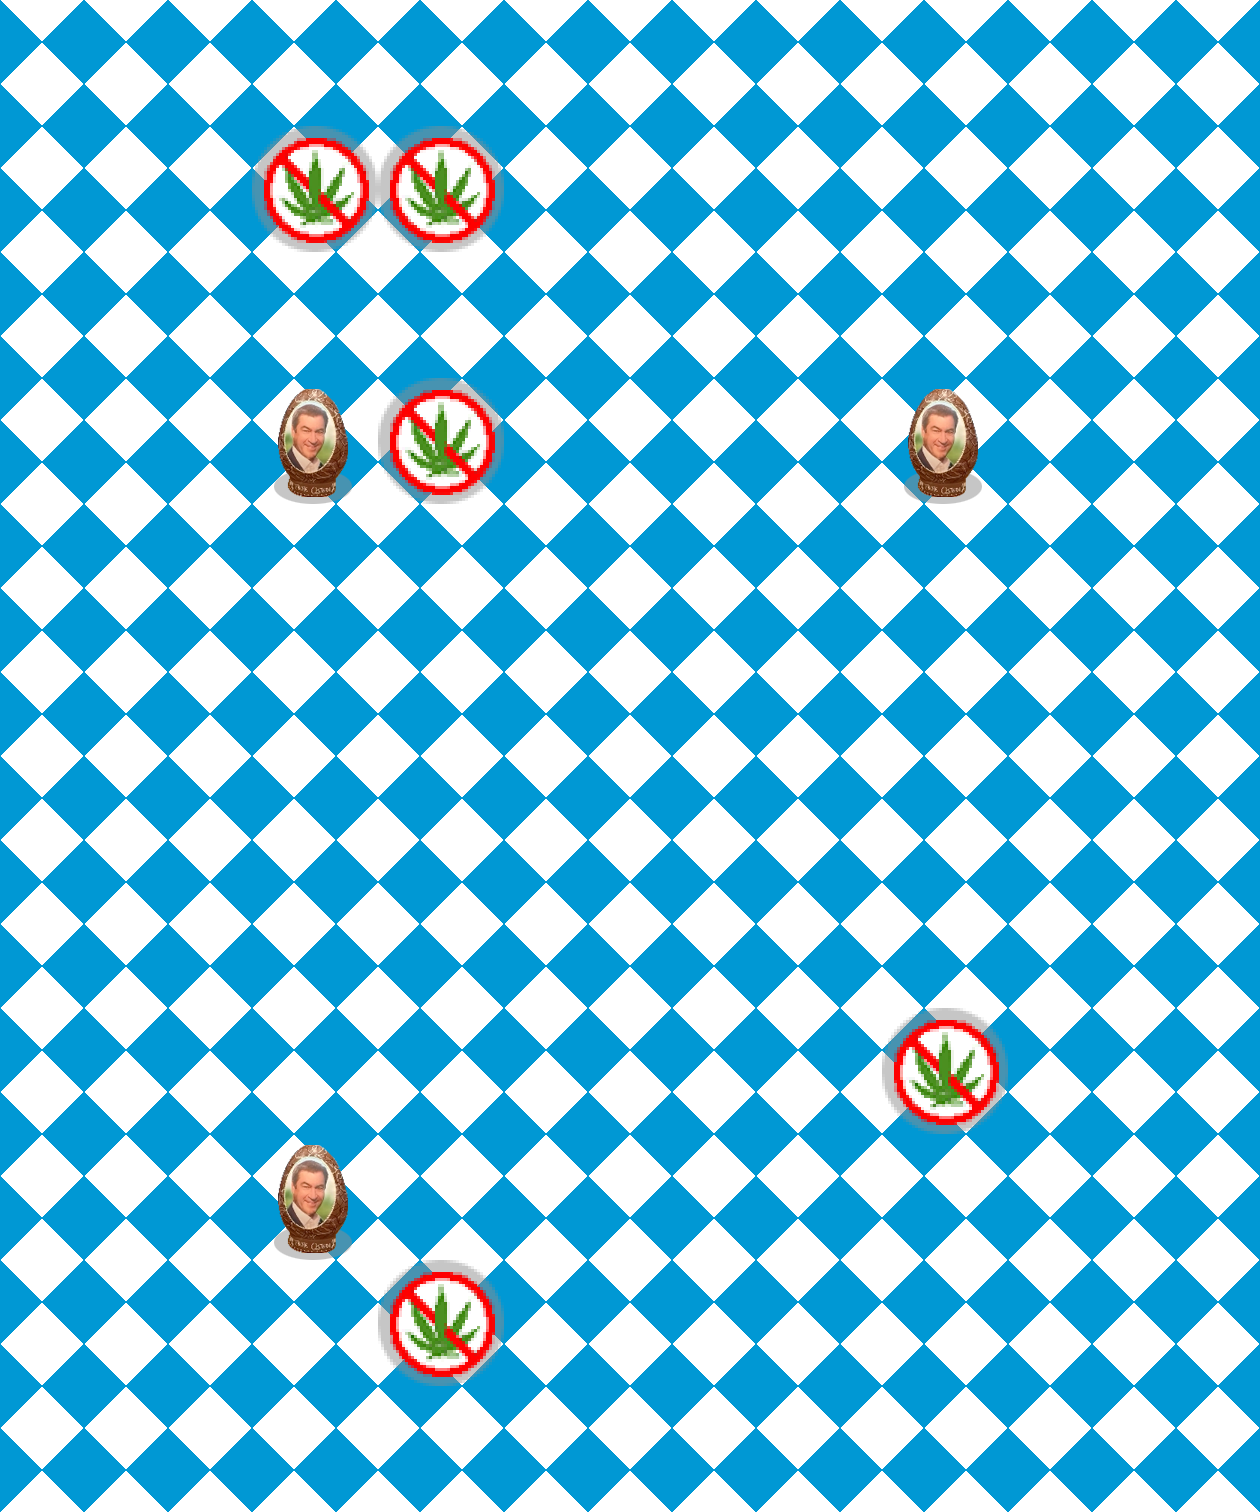
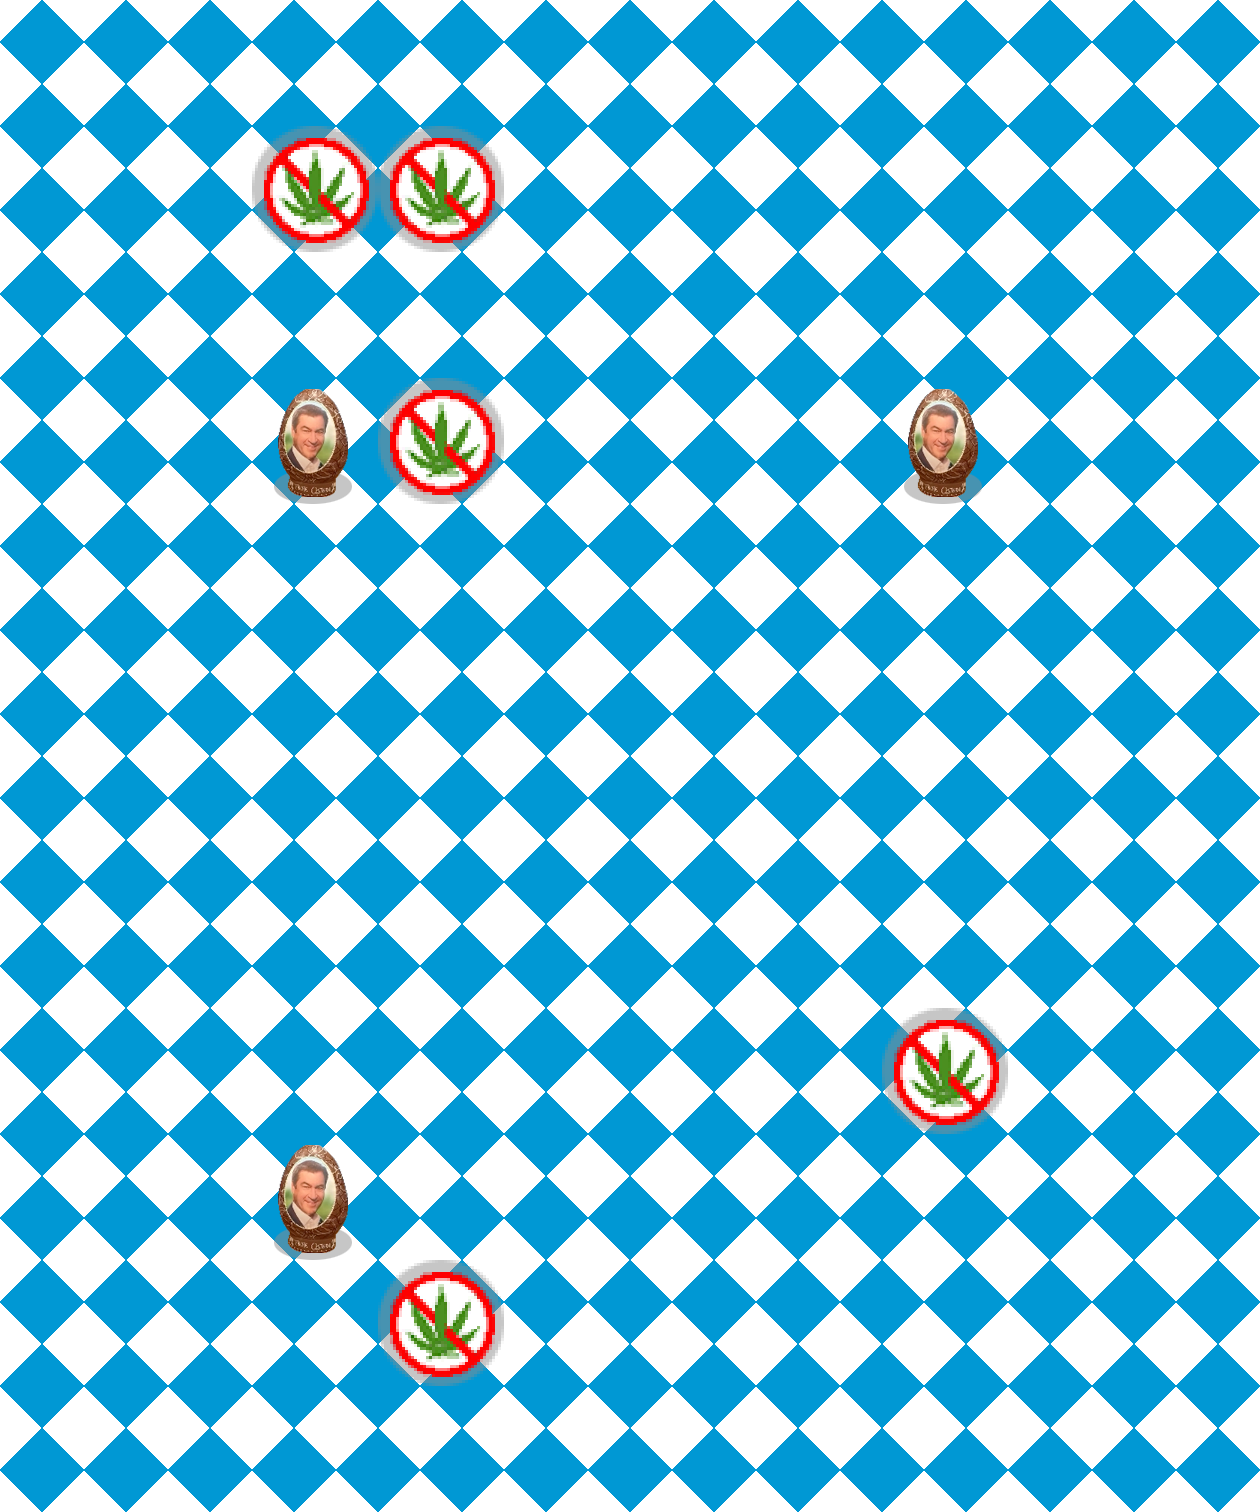
[#282] Fixed Resize Bug

diff --git a/ctf-ui/src/main/java/org/ctf/ui/App.java b/ctf-ui/src/main/java/org/ctf/ui/App.java
@@ -48,6 +48,7 @@ public class App extends Application {
   FadeTransition startTransition;
   Process process;
   static StackPane wrapper;
+  static StackPane root;
 
   public void startServer(String port){
     try {
@@ -128,7 +129,7 @@ public class App extends Application {
    * @return Parent
    */
   private Parent createParent() {
-    StackPane root = new StackPane();
+    root = new StackPane();
     root.setPrefSize(600, 600);
     Image bImage = new Image(getClass().getResourceAsStream("output.jpg"));
     ImageView vw = new ImageView(bImage);
@@ -189,7 +190,13 @@ public class App extends Application {
     App.wrapper = new StackPane();
     App.chagngeHomescreenBackground();
     root.getChildren().addAll(wrapper, vbox);
+    
     return root;
+  }
+  
+  public static void adjustHomescreen(double width,double height) {
+    App.root.setPrefWidth(width);
+    App.root.setPrefHeight(height);
   }
   
   public static void chagngeHomescreenBackground() {

diff --git a/ctf-ui/src/main/java/org/ctf/ui/HomeSceneController.java b/ctf-ui/src/main/java/org/ctf/ui/HomeSceneController.java
@@ -57,6 +57,7 @@ public class HomeSceneController {
 	public void switchtoHomeScreen(ActionEvent e) {
 		Scene scene = App.getScene();
 		stage = App.getStage();
+		App.adjustHomescreen(stage.getWidth(), stage.getHeight());
 		stage.setScene(scene);
 	}
 	
